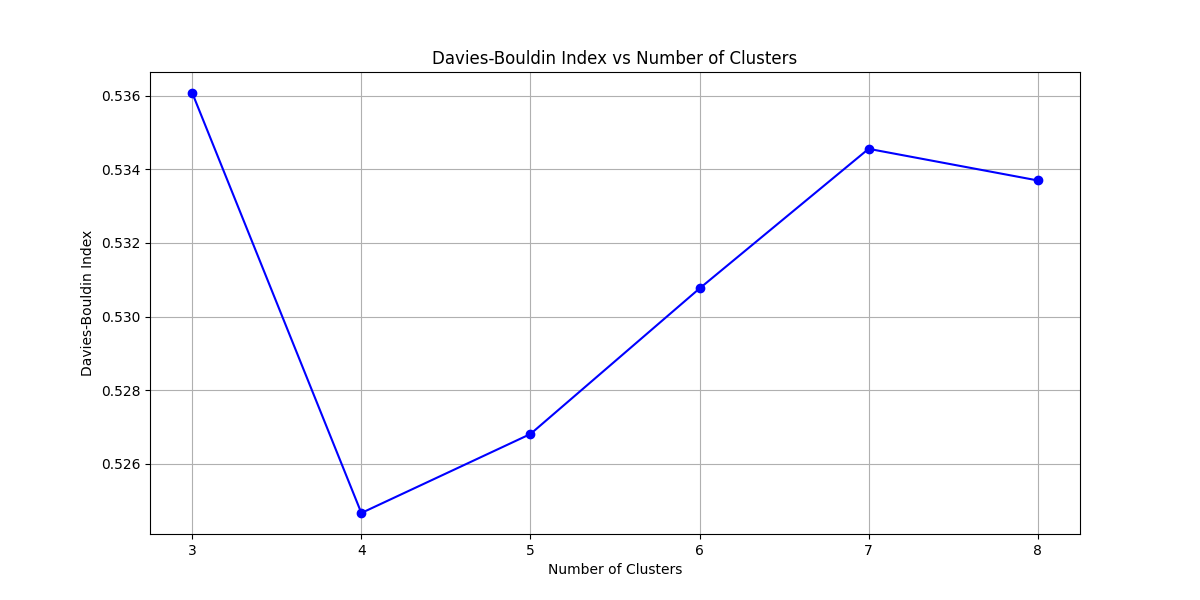
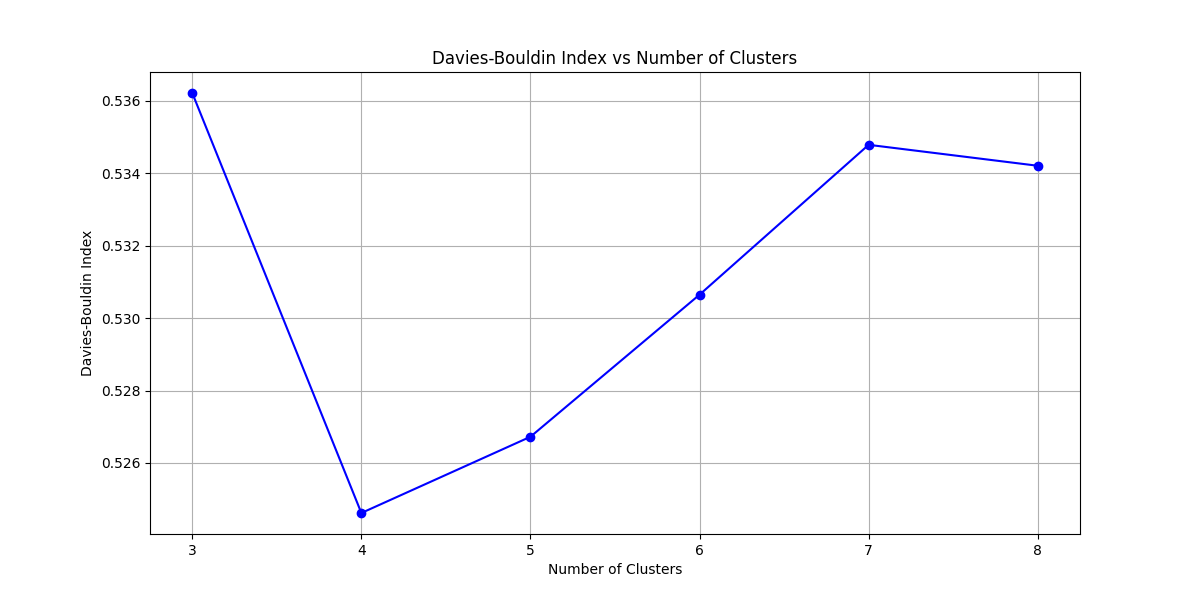
Code Updated

diff --git a/PyARC/data_clustering.py b/PyARC/data_clustering.py
@@ -6,6 +6,7 @@ from kneed import KneeLocator
 import numpy as np
 from scipy.stats import mode
 from sklearn.cluster import KMeans
+import matplotlib
 
 import matplotlib.pyplot as plt
 
@@ -13,24 +14,25 @@ class Clustering:
 
     def find_optimal_cluster_number(data):
         # Seleziona solo la colonna "M_consumption" per il clustering
-        X = data[['M_consumption']]
+        features = data.pivot_table(values='M_consumption', index=['User', 'Year', 'Month'],
+                                    columns='Hour').reset_index()
 
         # Lista per memorizzare i risultati dell'indice di Davies-Bouldin
         dbi_scores = []
 
         # Prova il clustering per un numero di cluster da 3 a 8
         for num_clusters in range(3, 9):
-            kmeans = KMeans(n_clusters=num_clusters, n_init=400, max_iter=600, algorithm='lloyd')
-            kmeans_labels = kmeans.fit_predict(X)
+            kmeans = KMeans(n_clusters=num_clusters, n_init=400, max_iter=600, algorithm='lloyd', random_state=42)
+            kmeans_labels = kmeans.fit_predict(features.iloc[:, 3:])
 
             # Calcola e salva il valore dell'indice di Davies-Bouldin
-            dbi_score = davies_bouldin_score(X, kmeans_labels)
+            dbi_score = davies_bouldin_score(features.iloc[:, 3:], kmeans_labels)
             dbi_scores.append(dbi_score)
 
         # Trova il numero ottimale di cluster utilizzando l'indice di Davies-Bouldin
         optimal_num_clusters = np.argmin(
             dbi_scores) + 3  # Argmin restituisce l'indice del minimo, aggiungiamo 3 per ottenere il numero di cluster
-
+        matplotlib.use('agg')
         # Crea il plot per l'andamento del DBI index al variare del numero di cluster
         plt.figure(figsize=(12, 6))
         plt.plot(range(3, 9), dbi_scores, marker='o', linestyle='-', color='b')
@@ -40,21 +42,26 @@ class Clustering:
         plt.grid(True)
 
         # Save the plot as a .png file in the "plots" directory
-        script_dir = os.path.dirname(__file__)  # Get the directory of the current script
-        plots_dir = os.path.join(script_dir, "..", "plots")  # Navigate to the "plots" directory
+        script_dir = os.path.dirname(os.path.abspath(__file__))  # Get the directory of the current script
+        plots_dir = os.path.join(script_dir, "plots")  # Navigate to the "plots" directory
         os.makedirs(plots_dir, exist_ok=True)  # Create the "plots" directory if it doesn't exist
 
         plt.savefig(os.path.join(plots_dir, "Davies-Bouldin Index vs Number of Clusters.png"))
 
+
         return optimal_num_clusters
 
-    def k_means_clustering(data,n_optimal_cluster):
-        # Seleziona solo la colonna "M_consumption" per il clustering
-        X = data[['M_consumption']]
-        # Prova il clustering per un numero di cluster da 3 a 8
+    def kmeans_clustering(df,optimal_cluster_number):
+        # Creazione di un dataframe temporaneo per le features di clustering
+        features = df.pivot_table(values='M_consumption', index=['User', 'Year', 'Month'], columns='Hour').reset_index()
 
-        kmeans = KMeans(n_clusters=n_optimal_cluster, n_init=400, max_iter=600, algorithm='lloyd')
-        kmeans_labels = kmeans.fit_predict(X)
+        # Esecuzione del k-means clustering
+        kmeans = KMeans(n_clusters=optimal_cluster_number, n_init=400, max_iter=600, algorithm='lloyd')
+        features['Cluster'] = kmeans.fit_predict(features.iloc[:, 3:]) + 1
 
-        return kmeans_labels
+        # Uniamo i risultati al dataframe originale
+        result_df = pd.merge(df, features[['User', 'Year', 'Month', 'Cluster']], on=['User', 'Year', 'Month'],
+                             how='left')
+
+        return result_df
 

diff --git a/PyARC/plots.py b/PyARC/plots.py
@@ -2,22 +2,25 @@ import os
 import pandas as pd
 import seaborn as sns
 import matplotlib.pyplot as plt
+import matplotlib
 
 class Plots:
-   def plot_norm_avg_cons(data):
-       plt.figure(figsize=(12, 6))
-       sns.lineplot(x="Hour", y="M_consumption", data=data, hue="User", ci=None)
+    def plot_norm_avg_cons(data):
+        # Utilizza il backend "agg" per evitare la visualizzazione interattiva
+        matplotlib.use('agg')
 
-       # Adding labels and title
-       plt.xlabel("Hour")
-       plt.ylabel("Normalized Average Monthly Consumption")
-       plt.title("Normalized Average Monthly Consumption Profiles")
-       plt.ylim(0, 1)
+        plt.figure(figsize=(12, 6))
+        sns.lineplot(x="Hour", y="M_consumption", data=data, hue="User", errorbar=None)
 
-       # Save the plot as a .png file in the "plots" directory
-       script_dir = os.path.dirname(__file__)  # Get the directory of the current script
-       plots_dir = os.path.join(script_dir, "..", "plots")  # Navigate to the "plots" directory
-       os.makedirs(plots_dir, exist_ok=True)  # Create the "plots" directory if it doesn't exist
+        # Adding labels and title
+        plt.xlabel("Hour")
+        plt.ylabel("Normalized Average Monthly Consumption")
+        plt.title("Normalized Average Monthly Consumption Profiles")
+        plt.ylim(0, 1)
 
-       plt.savefig(os.path.join(plots_dir, "Normalized Average Monthly Consumption Profiles.png"))
+        # Save the plot as a .png file in the "plots" directory
+        script_dir = os.path.dirname(__file__)  # Get the directory of the current script
+        plots_dir = os.path.join(script_dir, "..", "plots")  # Navigate to the "plots" directory
+        os.makedirs(plots_dir, exist_ok=True)  # Create the "plots" directory if it doesn't exist
 
+        plt.savefig(os.path.join(plots_dir, "Normalized Average Monthly Consumption Profiles.png"))

diff --git a/PyARC/main.py b/PyARC/main.py
@@ -5,6 +5,7 @@ from sklearn.metrics import davies_bouldin_score
 import pandas as pd
 import seaborn as sns
 import matplotlib.pyplot as plt
+import matplotlib
 from get_tou import CSVHandler as TouCSVHandler
 from get_file import CSVHandler as DataCSVHandler
 from data_preparation import DataFrameProcessor
@@ -64,9 +65,9 @@ class PyARC:
 
         optimal_number_cluster = Clustering.find_optimal_cluster_number(corrected_data_monthly)
 
-        k_label = Clustering.k_means_clustering(corrected_data,optimal_number_cluster)
+        #corrected_data_monthly = Clustering.kmeans_clustering(corrected_data_monthly,optimal_number_cluster)
 
-        return corrected_data, corrected_data_monthly, optimal_number_cluster, k_label
+        return corrected_data_monthly, optimal_number_cluster
 
 # Check if the script is being run as the main program
 if __name__ == "__main__":

diff --git a/test/script logs.py b/test/script logs.py
@@ -1,0 +1,12 @@
+def kmeans_clustering(df, n_clusters=3, random_state=42):
+    # Creazione di un dataframe temporaneo per le features di clustering
+    features = df.pivot_table(values='M_consumption', index=['User', 'Year', 'Month'], columns='Hour').reset_index()
+
+    # Esecuzione del k-means clustering
+    kmeans = KMeans(n_clusters=n_clusters, random_state=random_state)
+    features['Cluster'] = kmeans.fit_predict(features.iloc[:, 3:])
+
+    # Uniamo i risultati al dataframe originale
+    result_df = pd.merge(df, features[['User', 'Year', 'Month', 'Cluster']], on=['User', 'Year', 'Month'], how='left')
+
+    return result_df
